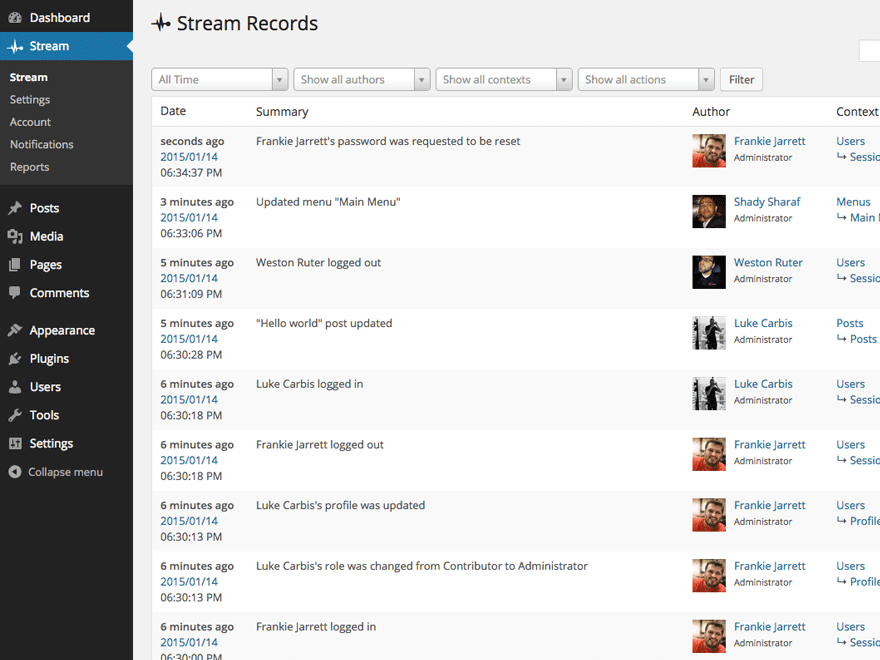
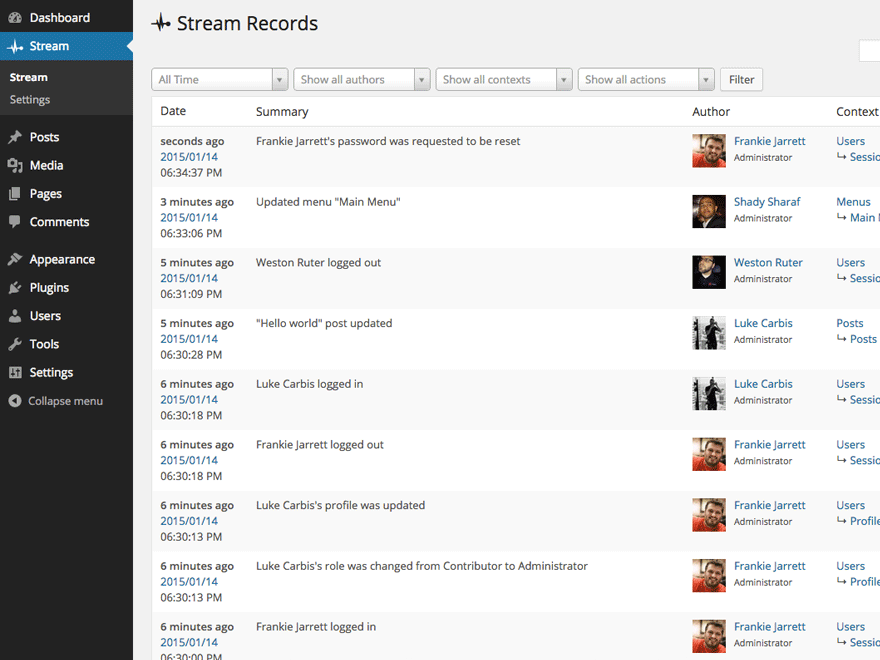
Update screenshots to remove notifications and reports

Changed region(s): [[0.0, 0.1818, 0.1227, 0.6364], [0.0, 0.6667, 0.1227, 0.7273]]

diff --git a/readme.md b/readme.md
@@ -86,14 +86,6 @@ Thank you for wanting to make Stream better for everyone! We salute you.
 
 ![Create rules for excluding certain kinds of records from appearing in Stream.](assets/screenshot-3.png)
 
-### Build notification rules to be alerted when important changes are made on your site.
-
-![Build notification rules to be alerted when important changes are made on your site.](assets/screenshot-4.png)
-
-### Generate stunning visuals of logged-in user activity and share them with stakeholders or your clients.
-
-![Generate stunning visuals of logged-in user activity and share them with stakeholders or your clients.](assets/screenshot-5.png)
-
 ## Changelog ##
 
 ### 3.0.0 - August 25, 2015 ###
